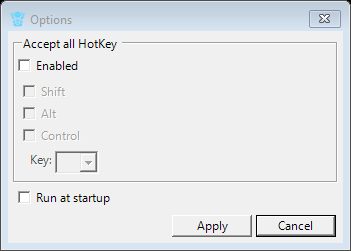
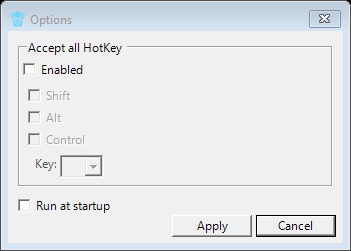
.

Changed region(s): [[0.0285, 0.1394, 0.9687, 0.8645]]

diff --git a/src/DiffEngineTray/Settings/OptionsForm.Designer.cs b/src/DiffEngineTray/Settings/OptionsForm.Designer.cs
@@ -16,20 +16,9 @@
             this.bottomPanel = new System.Windows.Forms.FlowLayoutPanel();
             this.cancel = new System.Windows.Forms.Button();
             this.save = new System.Windows.Forms.Button();
-            this.hotKey = new System.Windows.Forms.GroupBox();
-            this.keysSelectionPanel = new System.Windows.Forms.Panel();
-            this.keyPanel = new System.Windows.Forms.Panel();
-            this.keyCombo = new System.Windows.Forms.ComboBox();
-            this.keyLabel = new System.Windows.Forms.Label();
-            this.control = new System.Windows.Forms.CheckBox();
-            this.alt = new System.Windows.Forms.CheckBox();
-            this.shift = new System.Windows.Forms.CheckBox();
-            this.hotKeyEnabled = new System.Windows.Forms.CheckBox();
+            this.hotKey = new HotKeyControl();
             this.startupCheckBox = new System.Windows.Forms.CheckBox();
             this.bottomPanel.SuspendLayout();
-            this.hotKey.SuspendLayout();
-            this.keysSelectionPanel.SuspendLayout();
-            this.keyPanel.SuspendLayout();
             this.SuspendLayout();
             // 
             // bottomPanel
@@ -68,113 +57,20 @@
             // hotKey
             // 
             this.hotKey.AutoSize = true;
-            this.hotKey.Controls.Add(this.keysSelectionPanel);
-            this.hotKey.Controls.Add(this.hotKeyEnabled);
             this.hotKey.Dock = System.Windows.Forms.DockStyle.Top;
             this.hotKey.Location = new System.Drawing.Point(9, 9);
             this.hotKey.Name = "hotKey";
             this.hotKey.Padding = new System.Windows.Forms.Padding(9);
-            this.hotKey.Size = new System.Drawing.Size(556, 257);
+            this.hotKey.Size = new System.Drawing.Size(556, 46);
             this.hotKey.TabIndex = 2;
             this.hotKey.TabStop = false;
             this.hotKey.Text = "Accept all HotKey";
-            // 
-            // keysSelectionPanel
-            // 
-            this.keysSelectionPanel.AutoSize = true;
-            this.keysSelectionPanel.Controls.Add(this.keyPanel);
-            this.keysSelectionPanel.Controls.Add(this.control);
-            this.keysSelectionPanel.Controls.Add(this.alt);
-            this.keysSelectionPanel.Controls.Add(this.shift);
-            this.keysSelectionPanel.Dock = System.Windows.Forms.DockStyle.Top;
-            this.keysSelectionPanel.Enabled = false;
-            this.keysSelectionPanel.Location = new System.Drawing.Point(9, 71);
-            this.keysSelectionPanel.Name = "keysSelectionPanel";
-            this.keysSelectionPanel.Padding = new System.Windows.Forms.Padding(9);
-            this.keysSelectionPanel.Size = new System.Drawing.Size(538, 177);
-            this.keysSelectionPanel.TabIndex = 1;
-            // 
-            // keyPanel
-            // 
-            this.keyPanel.Controls.Add(this.keyCombo);
-            this.keyPanel.Controls.Add(this.keyLabel);
-            this.keyPanel.Dock = System.Windows.Forms.DockStyle.Top;
-            this.keyPanel.Location = new System.Drawing.Point(9, 111);
-            this.keyPanel.Name = "keyPanel";
-            this.keyPanel.Padding = new System.Windows.Forms.Padding(9);
-            this.keyPanel.Size = new System.Drawing.Size(520, 57);
-            this.keyPanel.TabIndex = 6;
-            // 
-            // keyCombo
-            // 
-            this.keyCombo.Dock = System.Windows.Forms.DockStyle.Left;
-            this.keyCombo.DropDownStyle = System.Windows.Forms.ComboBoxStyle.DropDownList;
-            this.keyCombo.FormattingEnabled = true;
-            this.keyCombo.Location = new System.Drawing.Point(60, 9);
-            this.keyCombo.Name = "keyCombo";
-            this.keyCombo.Size = new System.Drawing.Size(73, 38);
-            this.keyCombo.TabIndex = 5;
-            // 
-            // keyLabel
-            // 
-            this.keyLabel.AutoSize = true;
-            this.keyLabel.Dock = System.Windows.Forms.DockStyle.Left;
-            this.keyLabel.Location = new System.Drawing.Point(9, 9);
-            this.keyLabel.Name = "keyLabel";
-            this.keyLabel.Size = new System.Drawing.Size(51, 30);
-            this.keyLabel.TabIndex = 0;
-            this.keyLabel.Text = "Key:";
-            // 
-            // control
-            // 
-            this.control.AutoSize = true;
-            this.control.Dock = System.Windows.Forms.DockStyle.Top;
-            this.control.Location = new System.Drawing.Point(9, 77);
-            this.control.Name = "control";
-            this.control.Size = new System.Drawing.Size(520, 34);
-            this.control.TabIndex = 4;
-            this.control.Text = "Control";
-            this.control.UseVisualStyleBackColor = true;
-            // 
-            // alt
-            // 
-            this.alt.AutoSize = true;
-            this.alt.Dock = System.Windows.Forms.DockStyle.Top;
-            this.alt.Location = new System.Drawing.Point(9, 43);
-            this.alt.Name = "alt";
-            this.alt.Size = new System.Drawing.Size(520, 34);
-            this.alt.TabIndex = 1;
-            this.alt.Text = "Alt";
-            this.alt.UseVisualStyleBackColor = true;
-            // 
-            // shift
-            // 
-            this.shift.AutoSize = true;
-            this.shift.Dock = System.Windows.Forms.DockStyle.Top;
-            this.shift.Location = new System.Drawing.Point(9, 9);
-            this.shift.Name = "shift";
-            this.shift.Size = new System.Drawing.Size(520, 34);
-            this.shift.TabIndex = 0;
-            this.shift.Text = "Shift";
-            this.shift.UseVisualStyleBackColor = true;
-            // 
-            // hotKeyEnabled
-            // 
-            this.hotKeyEnabled.AutoSize = true;
-            this.hotKeyEnabled.Dock = System.Windows.Forms.DockStyle.Top;
-            this.hotKeyEnabled.Location = new System.Drawing.Point(9, 37);
-            this.hotKeyEnabled.Name = "hotKeyEnabled";
-            this.hotKeyEnabled.Size = new System.Drawing.Size(538, 34);
-            this.hotKeyEnabled.TabIndex = 0;
-            this.hotKeyEnabled.Text = "Enabled";
-            this.hotKeyEnabled.UseVisualStyleBackColor = true;
-            this.hotKeyEnabled.CheckedChanged += new System.EventHandler(this.hotKeyEnabled_CheckedChanged);
             // 
             // startupCheckBox
             // 
             this.startupCheckBox.AutoSize = true;
             this.startupCheckBox.Dock = System.Windows.Forms.DockStyle.Top;
-            this.startupCheckBox.Location = new System.Drawing.Point(9, 266);
+            this.startupCheckBox.Location = new System.Drawing.Point(9, 55);
             this.startupCheckBox.Name = "startupCheckBox";
             this.startupCheckBox.Padding = new System.Windows.Forms.Padding(9);
             this.startupCheckBox.Size = new System.Drawing.Size(556, 52);
@@ -200,12 +96,6 @@
             this.SizeGripStyle = System.Windows.Forms.SizeGripStyle.Hide;
             this.Text = "Options";
             this.bottomPanel.ResumeLayout(false);
-            this.hotKey.ResumeLayout(false);
-            this.hotKey.PerformLayout();
-            this.keysSelectionPanel.ResumeLayout(false);
-            this.keysSelectionPanel.PerformLayout();
-            this.keyPanel.ResumeLayout(false);
-            this.keyPanel.PerformLayout();
             this.ResumeLayout(false);
             this.PerformLayout();
 
@@ -213,14 +103,6 @@
     private System.Windows.Forms.FlowLayoutPanel bottomPanel;
     private System.Windows.Forms.Button cancel;
     private System.Windows.Forms.Button save;
-    private System.Windows.Forms.GroupBox hotKey;
-    private System.Windows.Forms.Panel keysSelectionPanel;
-    private System.Windows.Forms.ComboBox keyCombo;
-    private System.Windows.Forms.CheckBox control;
-    private System.Windows.Forms.CheckBox alt;
-    private System.Windows.Forms.CheckBox shift;
-    private System.Windows.Forms.CheckBox hotKeyEnabled;
-    private System.Windows.Forms.Panel keyPanel;
-    private System.Windows.Forms.Label keyLabel;
+    private HotKeyControl hotKey;
     private System.Windows.Forms.CheckBox startupCheckBox;
 }

diff --git a/src/DiffEngineTray/Settings/OptionsForm.cs b/src/DiffEngineTray/Settings/OptionsForm.cs
@@ -13,8 +13,6 @@ public partial class OptionsForm :
     public OptionsForm()
     {
         InitializeComponent();
-        keyCombo.Items.AddRange(GetAlphabet().ToArray());
-
         Icon = Images.Active;
     }
 
@@ -25,12 +23,11 @@ public partial class OptionsForm :
         var key = settings.AcceptAllHotKey;
         if (key != null)
         {
-            hotKeyEnabled.Checked = true;
-            keysSelectionPanel.Enabled = true;
-            shift.Checked = key.Shift;
-            alt.Checked = key.Alt;
-            control.Checked = key.Control;
-            keyCombo.SelectedItem = key.Key;
+            hotKey.KeyEnabled = true;
+            hotKey.IsShift =key.Shift;
+            hotKey.IsAlt =key.Alt;
+            hotKey.IsControl = key.Control;
+            hotKey.Key = key.Key;
         }
 
         startupCheckBox.Checked = settings.RunAtStartup;
@@ -44,25 +41,20 @@ public partial class OptionsForm :
         }
     }
 
-    void hotKeyEnabled_CheckedChanged(object sender, EventArgs e)
-    {
-        keysSelectionPanel.Enabled = hotKeyEnabled.Checked;
-    }
-
     async void save_Click(object sender, EventArgs e)
     {
         var newSettings = new Settings
         {
             RunAtStartup = startupCheckBox.Checked
         };
-        if (hotKeyEnabled.Checked)
+        if (hotKey.KeyEnabled)
         {
             newSettings.AcceptAllHotKey = new HotKey
             {
-                Key = (string) keyCombo.SelectedItem,
-                Shift = shift.Checked,
-                Alt = alt.Checked,
-                Control = control.Checked
+                Key = hotKey.Key!,
+                Shift = hotKey.IsShift,
+                Alt = hotKey.IsAlt,
+                Control = hotKey.IsControl
             };
         }
 

diff --git a/src/DiffEngineTray/Settings/HotKeyControl.cs b/src/DiffEngineTray/Settings/HotKeyControl.cs
@@ -11,9 +11,9 @@ public partial class HotKeyControl :
         keyCombo.Items.AddRange(GetAlphabet().ToArray());
     }
 
-    public char? Key
+    public string? Key
     {
-        get => (char?) keyCombo.SelectedItem;
+        get => (string?) keyCombo.SelectedItem;
         set => keyCombo.SelectedItem = value;
     }
 
@@ -41,11 +41,11 @@ public partial class HotKeyControl :
         set => control.Checked = value;
     }
 
-    static IEnumerable<object> GetAlphabet()
+    static IEnumerable<string> GetAlphabet()
     {
         for (var c = 'A'; c <= 'Z'; c++)
         {
-            yield return c;
+            yield return c.ToString();
         }
     }
 

diff --git a/src/DiffEngineTray.Tests/HotKeyControlTests.cs b/src/DiffEngineTray.Tests/HotKeyControlTests.cs
@@ -19,7 +19,7 @@ public class HotKeyControlTests :
         using var target = new HotKeyControl()
         {
             IsShift = true,
-            Key = 'A',
+            Key = "A",
             KeyEnabled = true
         };
         await Verifier.Verify(target);
